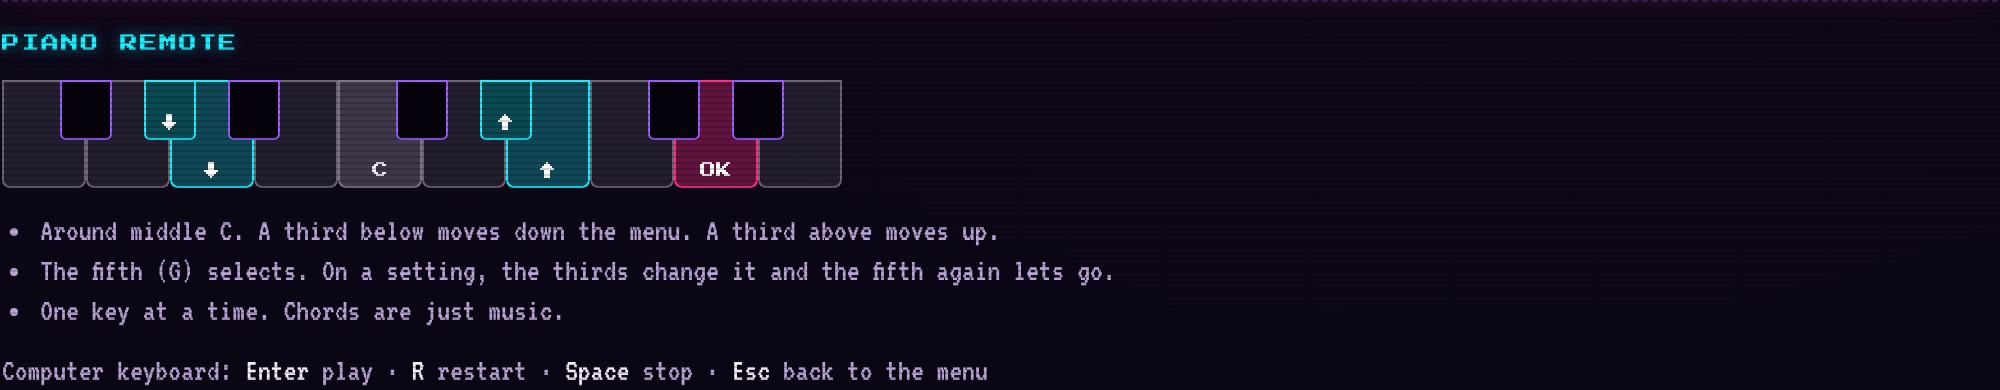
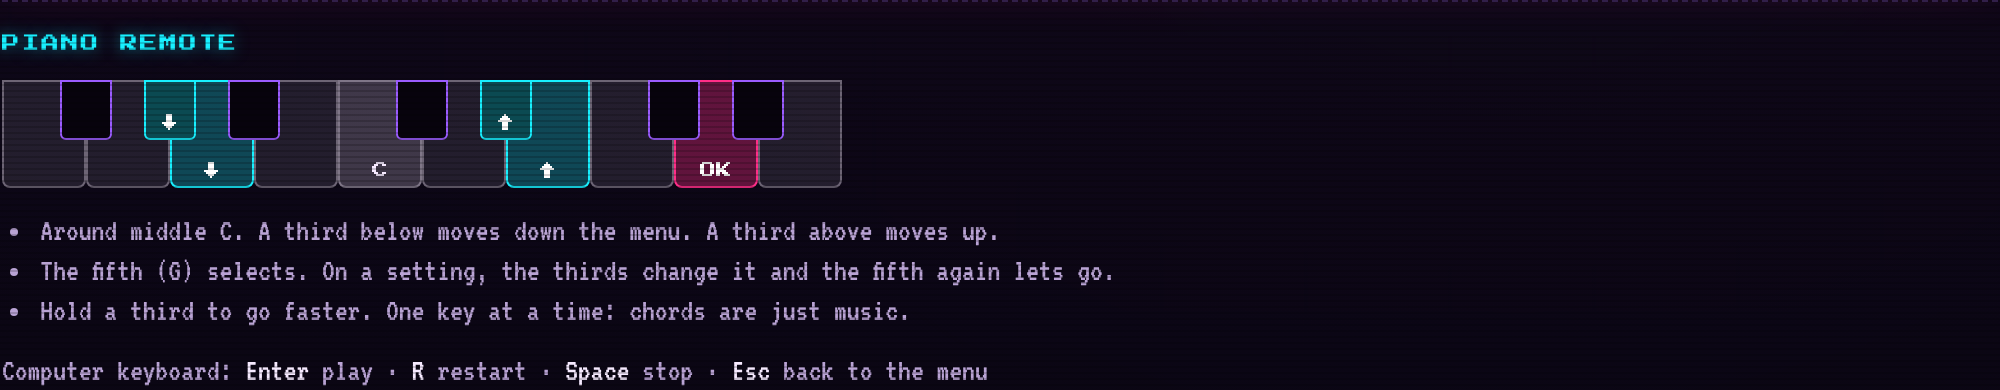
Ghost Jam: hold a third to repeat, faster and faster; tempo in steps of 1 bpm
Claude-Session: https://claude.ai/code/session_01FTf6Pa16uagEU9wMwitgnF

Changed region(s): [[0.0, 0.7692, 0.465, 0.8308]]

diff --git a/tests/jam.test.js b/tests/jam.test.js
@@ -327,15 +327,14 @@ test('favourites: toggle, newest first, capped, cleaned', async () => {
 
 test('piano remote: one key alone is a command, a chord is not', async () => {
   const { PianoRemote, gestureOf } = await import('../jam/js/remote.js');
-  const r = new PianoRemote();
-  r.noteOn(67, true);
-  assert.equal(r.noteOff(67), 67);
+  const got = [];
+  const r = new PianoRemote({ onCommand: (m) => got.push(m) });
+  r.noteOn(67, true); r.noteOff(67);
+  assert.deepEqual(got, [67]);
   r.noteOn(60, true); r.noteOn(64, true); r.noteOn(67, true);
-  assert.equal(r.noteOff(60), null);
-  assert.equal(r.noteOff(64), null);
-  assert.equal(r.noteOff(67), null);              // a C chord does nothing
-  r.noteOn(67, false);
-  assert.equal(r.noteOff(67), null);              // pressed while playing: never a command
+  r.noteOff(60); r.noteOff(64); r.noteOff(67);   // a C chord does nothing
+  r.noteOn(67, false); r.noteOff(67);            // pressed while playing: never a command
+  assert.deepEqual(got, [67]);
   // Intervals from middle C.
   assert.equal(gestureOf(57), 'down');             // A3, minor third below
   assert.equal(gestureOf(56), 'down');             // A♭3, major third below
@@ -344,6 +343,40 @@ test('piano remote: one key alone is a command, a chord is not', async () => {
   assert.equal(gestureOf(67), 'select');           // G4
   assert.equal(gestureOf(60), null);
   assert.equal(gestureOf(76), null);               // E5: only around middle C
+});
+
+test('piano remote: hold a third and it repeats, faster', async (t) => {
+  t.mock.timers.enable({ apis: ['setTimeout'] });
+  // Timers set from inside a timer only run on a later tick: advance 1 ms at a time.
+  const tick = (ms) => { for (let i = 0; i < ms; i++) t.mock.timers.tick(1); };
+  const { PianoRemote, REPEAT } = await import('../jam/js/remote.js');
+  const got = [];
+  const r = new PianoRemote({ onCommand: (m) => got.push(m), repeats: (m) => m === 64 });
+  r.noteOn(64, true);
+  tick(REPEAT.delay - 1);
+  assert.equal(got.length, 0);
+  tick(1);
+  assert.equal(got.length, 1);
+  tick(REPEAT.interval * (REPEAT.rushAfter - 1));
+  assert.equal(got.length, REPEAT.rushAfter);
+  tick(REPEAT.rush * 4);              // rushing now
+  assert.equal(got.length, REPEAT.rushAfter + 4);
+  r.noteOff(64);                                    // letting go adds nothing
+  tick(1000);
+  assert.equal(got.length, REPEAT.rushAfter + 4);
+  // A quick tap still counts once, on release.
+  got.length = 0;
+  r.noteOn(64, true); tick(100); r.noteOff(64);
+  assert.deepEqual(got, [64]);
+  // A second key stops the repeat.
+  got.length = 0;
+  r.noteOn(64, true); tick(REPEAT.delay); r.noteOn(67, true);
+  tick(1000); r.noteOff(67); r.noteOff(64);
+  assert.deepEqual(got, [64]);
+  // The fifth never repeats.
+  got.length = 0;
+  r.noteOn(67, true); tick(2000); r.noteOff(67);
+  assert.deepEqual(got, [67]);
 });
 
 test('menu cursor: thirds move, the fifth takes and lets go a setting', async () => {

diff --git a/jam/js/remote.js b/jam/js/remote.js
@@ -2,8 +2,9 @@
 // middle C. A third below (A or A♭ under middle C) moves down the menu, a
 // third above (E or E♭) moves up, the fifth (G) selects. Once a setting is
 // selected, the thirds change its value (above: more, below: less) and the
-// fifth again lets go. A key counts only when pressed and released on its
-// own, so chords are just music, and nothing listens while a set plays.
+// fifth again lets go. A key counts only when played on its own, so chords
+// are just music, and nothing listens while a set plays. Hold a third and it
+// repeats, faster and faster.
 
 export const MIDDLE_C = 60;
 
@@ -14,12 +15,21 @@ const GESTURES = {
 };
 export const gestureOf = (midi) => GESTURES[midi] ?? null;
 
-// Single keys only: returns the MIDI note once every key is up, or null.
+// Single keys only. onCommand(midi) fires when a key is released having been
+// pressed alone. A key that repeats (the thirds) also fires while held: after
+// REPEAT.delay, then every REPEAT.interval, faster after REPEAT.rushAfter
+// repeats; letting go then fires nothing more. A second key cancels it all.
+export const REPEAT = { delay: 350, interval: 90, rush: 35, rushAfter: 8 };
+
 export class PianoRemote {
-  constructor() {
+  constructor({ onCommand = () => {}, repeats = () => false } = {}) {
+    this.onCommand = onCommand;
+    this.repeats = repeats;
     this.held = new Set();
-    this.armed = null;    // the key that opened the gesture, if it can be a command
-    this.spoiled = false; // another key joined in: it was a chord
+    this.armed = null;     // the key that opened the gesture, if it can be a command
+    this.spoiled = false;  // another key joined in: it was a chord
+    this.fired = 0;        // repeats already fired by this hold
+    this.timer = 0;
   }
 
   // enabled: whether a command may start now (a menu is on screen).
@@ -27,19 +37,33 @@ export class PianoRemote {
     if (this.held.size === 0) {
       this.armed = enabled ? midi : null;
       this.spoiled = false;
+      this.fired = 0;
+      if (this.armed !== null && this.repeats(midi)) this.#schedule(REPEAT.delay);
     } else {
       this.spoiled = true;
+      this.#stop();
     }
     this.held.add(midi);
   }
 
   noteOff(midi) {
     this.held.delete(midi);
-    if (this.held.size) return null;
+    if (this.held.size) return;
+    this.#stop();
     const m = this.armed;
     this.armed = null;
-    return m === null || this.spoiled ? null : m;
+    if (m !== null && !this.spoiled && !this.fired) this.onCommand(m);
   }
+
+  #schedule(ms) {
+    this.timer = setTimeout(() => {
+      this.fired++;
+      this.onCommand(this.armed);
+      this.#schedule(this.fired >= REPEAT.rushAfter ? REPEAT.rush : REPEAT.interval);
+    }, ms);
+  }
+
+  #stop() { clearTimeout(this.timer); this.timer = 0; }
 }
 
 // The menu cursor. items: [{ id, kind: 'value' | 'action' }], top to bottom.

diff --git a/jam/js/main.js b/jam/js/main.js
@@ -482,8 +482,7 @@ function onNoteOn(midi, velocity = 80, tPerf = performance.now()) {
 }
 
 function onNoteOff(midi) {
-  const m = remote.noteOff(midi);
-  if (m !== null) runRemote(m);
+  remote.noteOff(midi);
   held.delete(midi);
   velocities.delete(midi);
   keyState(midi, null);
@@ -835,7 +834,10 @@ function backToSetup() {
 // TV remote, in intervals from middle C (see remote.js). The legend under
 // the Play button shows how.
 
-const remote = new PianoRemote();
+const remote = new PianoRemote({
+  onCommand: (m) => runRemote(m),
+  repeats: (m) => gestureOf(m) === 'up' || gestureOf(m) === 'down',
+});
 
 function remoteScreen() {
   if (!$('achModal').hidden) return null;
@@ -901,7 +903,7 @@ const CHANGE = {
   groove: (dir) => setStyle(step(STYLE_ORDER, settings.style, dir)),
   tune: (dir) => stepSelect($('tuneSelect'), dir),
   key: (dir) => stepSelect($('keySelect'), dir),
-  tempo: (dir) => nudgeTempo(dir * 5),
+  tempo: (dir) => nudgeTempo(dir),
   bars: (dir) => stepSelect($('barsSelect'), dir),
   length: (dir) => stepSelect($('lengthSelect'), dir),
 };
@@ -924,7 +926,7 @@ function runRemote(midi) {
   if (fx?.type === 'activate') ACTIVATE[fx.id]();
   paintNav();
   if (remoteScreen() === screen && fx?.type === 'focus') {
-    (screen === 'setup' ? SETUP_ROWS : RESULT_ROWS)[fx.id].el().scrollIntoView({ block: 'nearest', behavior: 'smooth' });
+    (screen === 'setup' ? SETUP_ROWS : RESULT_ROWS)[fx.id].el().scrollIntoView({ block: 'nearest' });
   }
 }
 

diff --git a/jam/index.html b/jam/index.html
@@ -143,7 +143,7 @@
           <ul class="remote-how">
             <li>Around middle C. A third below moves down the menu. A third above moves up.</li>
             <li>The fifth (G) selects. On a setting, the thirds change it and the fifth again lets go.</li>
-            <li>One key at a time. Chords are just music.</li>
+            <li>Hold a third to go faster. One key at a time: chords are just music.</li>
           </ul>
           <p class="remote-sub">Computer keyboard: <b>Enter</b> play · <b>R</b> restart · <b>Space</b> stop · <b>Esc</b> back to the menu</p>
         </div>
